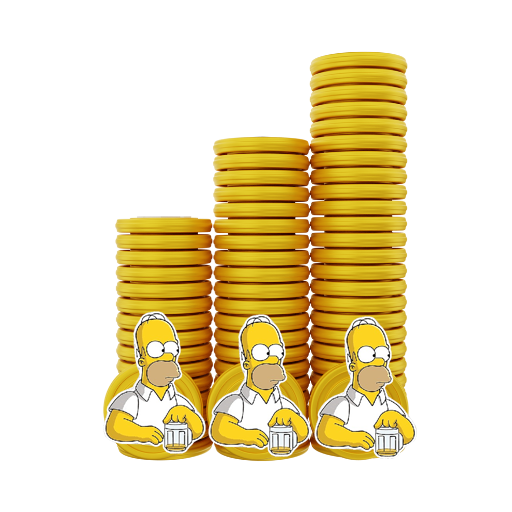
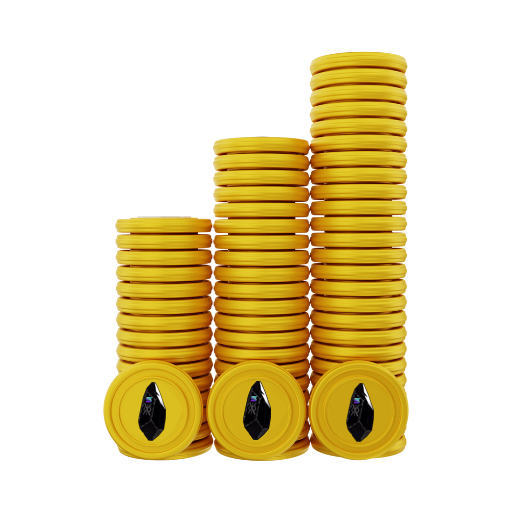
mew

Changed region(s): [[0.1875, 0.5938, 0.8125, 0.9062]]

diff --git a/index.html b/index.html
@@ -6,7 +6,7 @@
     <meta name="viewport" content="width=device-width, initial-scale=1">
     <link rel="profile" href="https://gmpg.org/xfn/11">
 
-    <title>Simpsons </title>
+    <title>Runememe </title>
     <meta name='robots' content='max-image-preview:large' />
     <link rel='dns-prefetch' href='//fonts.googleapis.com' />
     <link rel="alternate" type="application/rss+xml" title="SPONGEBOB &raquo; Feed" href="https://spongebobinu.world/feed/" />
@@ -3608,7 +3608,7 @@ flexibility(document.documentElement);
                                                     <div class="ast-builder-layout-element ast-flex site-header-focus-item" data-section="title_tagline">
                                                         <div class="site-branding ast-site-identity" itemtype="https://schema.org/Organization" itemscope="itemscope">
                                                             <span class="site-logo-img"><a href="" class="custom-logo-link" rel="home" aria-current="page">
-                                                            <img src="/wp-content/uploads/2023/04/cropped-17.png" style="width: 50px;" alt="">
+                                                            <img src="/wp-content/uploads/2023/04/logo.png" style="width: 50px;" alt="">
                                                             </a></span>                                                            </div>
                                                         <!-- .site-branding -->
                                                     </div>
@@ -3659,7 +3659,7 @@ flexibility(document.documentElement);
                                                     <div class="site-branding ast-site-identity" itemtype="" itemscope="itemscope">
                                                         <span class="site-logo-img"><a href="" class="custom-logo-link" rel="home" aria-current="page">
                                                             
-                                                            <img src="/wp-content/uploads/2023/04/cropped-17.png" style="width: 50px;" alt="">
+                                                            <img src="/wp-content/uploads/2023/04/logo.png" style="width: 50px;" alt="">
                                                         </a></span>                                                        </div>
                                                     <!-- .site-branding -->
                                                 </div>
@@ -3711,7 +3711,16 @@ flexibility(document.documentElement);
                                                                                 <div class="elementor-widget-wrap elementor-element-populated">
                                                                                     <div class="elementor-element elementor-element-8ca3dcc dce_masking-none elementor-widget elementor-widget-image" data-id="8ca3dcc" data-element_type="widget" data-widget_type="image.default">
                                                                                         <div class="elementor-widget-container">
-                                                                                       <h1 style="font-family: 'Righteous', display;">Welcome to Simpson</h1>
+                                                                                            <style>
+                                                                                                 .text-gradient {
+        font-size: 48px;
+        background-image: linear-gradient(to left top, #00c57e, #00c899, #00c9b1, #00cac5, #00cad4, #00c3e3, #00bbf0, #00b1f8, #0099fd, #407df9, #7957e6, #a400c3);
+        -webkit-background-clip: text;
+        background-clip: text;
+        color: transparent;
+    }
+                                                                                            </style>
+                                                                                       <h1 style="font-family: 'Righteous', display; color: #000;">Running towards RuneMeme on <span class="text-gradient"> Solana</span> </h1>
                                                                                        <style>
                                                                                                 /*! elementor - v3.13.3 - 28-05-2023 */
 
@@ -3731,7 +3740,19 @@ flexibility(document.documentElement);
                                                                                                     vertical-align: middle;
                                                                                                     display: inline-block
                                                                                                 }
-                                                                                            </style> <img decoding="async" src="/wp-content/uploads/2023/04/1.gif" title="" alt="" loading="lazy" /> </div>
+                                                                                                @keyframes float {
+        0% { transform: translateY(0); }
+        50% { transform: translateY(-10px); }
+        100% { transform: translateY(0); }
+    }
+    
+    .floating-element {
+     
+        animation: float 2s infinite;
+    }
+                                                                                            </style> 
+                                                                                            
+                                                                                            <img decoding="async" src="/wp-content/uploads/2023/04/1.gif"  class="floating-element" title="" alt="" loading="lazy" /> </div>
                                                                                     </div>
                                                                                 </div>
                                                                             </div>
@@ -4140,7 +4161,7 @@ flexibility(document.documentElement);
                                                             </div>
                                                         </div>
                                                     </section>
-                                                    <section data-dce-background-color="#290B6600" data-dce-background-image-url="/wp-content/uploads/2023/04/8.png" class="elementor-section elementor-top-section elementor-element elementor-element-44015ba9 elementor-section-boxed elementor-section-height-default elementor-section-height-default"
+                                                    <section data-dce-background-color="#290B6600" data-dce-background-image-url="/wp-content/uploads/2023/04/logo.png" class="elementor-section elementor-top-section elementor-element elementor-element-44015ba9 elementor-section-boxed elementor-section-height-default elementor-section-height-default"
                                                         data-id="44015ba9" data-element_type="section" id="about" data-settings="{&quot;background_background&quot;:&quot;classic&quot;}">
                                                         <div class="elementor-container elementor-column-gap-default">
                                                             <div class="elementor-column elementor-col-100 elementor-top-column elementor-element elementor-element-5a9f4544" data-id="5a9f4544" data-element_type="column">
@@ -4186,20 +4207,24 @@ flexibility(document.documentElement);
                                                                                                     display: inline-block
                                                                                                 }
                                                                                             </style>
-                                                                                            <p>Hi,</p>
+                                                                                            <p>About</p>
                                                                                         </div>
                                                                                     </div>
                                                                                     <div class="elementor-element elementor-element-ed303f5 elementor-widget elementor-widget-text-editor" data-id="ed303f5" data-element_type="widget" data-settings="{&quot;_animation_mobile&quot;:&quot;fadeInUp&quot;}" data-widget_type="text-editor.default">
                                                                                         <div class="elementor-widget-container">
-                                                                                            <p>I&#8217;m Homper Simpson</p>
+                                                                                            <p> Runememe</p>
                                                                                         </div>
                                                                                     </div>
                                                                                     <div class="elementor-element elementor-element-5133971c elementor-widget elementor-widget-text-editor" data-id="5133971c" data-element_type="widget" data-settings="{&quot;_animation&quot;:&quot;none&quot;,&quot;_animation_mobile&quot;:&quot;fadeInUp&quot;}"
                                                                                         data-widget_type="text-editor.default">
                                                                                         <div class="elementor-widget-container">
                                                                                             <p>
-                                                                                                Lorem ipsum, dolor sit amet consectetur adipisicing elit. Laborum ea quia a temporibus l
-                                                                                                abore, maxime, ut distinctio fugit quo fuga architecto consequatur vitae aperiam!
+                                                                                                RuneMeme on Solana is inspired by $Runes and Bitcoin Ecosystem 🪙🪙
+
+                                                                                                We are on the journey to making RuneMeme the Biggest and 
+                                                                                                Most Recognized Meme Project under the Influence of $Runes 👻👻
+                                                                                                
+                                                                                                Stay Tuned as we make this a groundbreaking breaking Project to make its Community the Wealthy and Recognized 💰🥳
                                                                                             </p>
                                                                                         </div>
                                                                                     </div>
@@ -4209,7 +4234,7 @@ flexibility(document.documentElement);
                                                                                 <div class="elementor-widget-wrap elementor-element-populated">
                                                                                     <div class="elementor-element elementor-element-7878457f dce_masking-none elementor-widget elementor-widget-image" data-id="7878457f" data-element_type="widget" data-widget_type="image.default">
                                                                                         <div class="elementor-widget-container">
-                                                                                            <img decoding="async" src="/wp-content/uploads/2023/04/c-1.png" title="" alt="" loading="lazy" /> </div>
+                                                                                            <img decoding="async" src="/wp-content/uploads/2023/04/logo.png" class="floating-element" title="" alt="" loading="lazy" /> </div>
                                                                                     </div>
                                                                                 </div>
                                                                             </div>
@@ -4269,7 +4294,7 @@ flexibility(document.documentElement);
                                                                                 <div class="elementor-widget-wrap elementor-element-populated">
                                                                                     <div class="elementor-element elementor-element-b2f0bf7 elementor-widget elementor-widget-text-editor" data-id="b2f0bf7" data-element_type="widget" data-settings="{&quot;_animation_mobile&quot;:&quot;fadeInUp&quot;}" data-widget_type="text-editor.default">
                                                                                         <div class="elementor-widget-container">
-                                                                                            <p>Lorem, ipsum dolor.</p>
+                                                                                            <p>  RuneMeme on Solana is inspired by $Runes and Bitcoin Ecosystem 🪙🪙</p>
                                                                                         </div>
                                                                                     </div>
                                                                                 </div>
@@ -4292,7 +4317,8 @@ flexibility(document.documentElement);
                                                                                     <div class="elementor-element elementor-element-8a384f8 elementor-widget elementor-widget-text-editor" data-id="8a384f8" data-element_type="widget" data-settings="{&quot;_animation&quot;:&quot;none&quot;,&quot;_animation_mobile&quot;:&quot;fadeInUp&quot;}"
                                                                                         data-widget_type="text-editor.default">
                                                                                         <div class="elementor-widget-container">
-                                                                                            <p>Lorem ipsum dolor sit amet consectetur, adipisicing elit. Rem iste inventore non!</p>
+                                                                                            <!-- <p>Lorem ipsum dolor sit amet consectetur, adipisicing elit. Rem iste inventore non!</p>
+                                                                                         -->
                                                                                         </div>
                                                                                     </div>
                                                                                 </div>
@@ -4400,7 +4426,7 @@ flexibility(document.documentElement);
                                                                                             <div class="elementor-counter">
                                                                                                 <div class="elementor-counter-number-wrapper">
                                                                                                     <span class="elementor-counter-number-prefix"></span>
-                                                                                                    <span class="elementor-counter-number" data-duration="2000" data-to-value="50.7" data-from-value="0" data-delimiter=",">0</span>
+                                                                                                    <span class="elementor-counter-number" data-duration="2000" data-to-value="100" data-from-value="0" data-delimiter=",">0</span>
                                                                                                     <span class="elementor-counter-number-suffix">%</span>
                                                                                                 </div>
                                                                                                 <div class="elementor-counter-title">Burn</div>
@@ -4412,7 +4438,7 @@ flexibility(document.documentElement);
                                                                                             <div class="elementor-counter">
                                                                                                 <div class="elementor-counter-number-wrapper">
                                                                                                     <span class="elementor-counter-number-prefix"></span>
-                                                                                                    <span class="elementor-counter-number" data-duration="2000" data-to-value="16.4" data-from-value="0" data-delimiter=",">0</span>
+                                                                                                    <span class="elementor-counter-number" data-duration="2000" data-to-value="40" data-from-value="0" data-delimiter=",">0</span>
                                                                                                     <span class="elementor-counter-number-suffix">%</span>
                                                                                                 </div>
                                                                                                 <div class="elementor-counter-title">Liquidity</div>
@@ -4428,8 +4454,8 @@ flexibility(document.documentElement);
                                                                                             <div class="elementor-counter">
                                                                                                 <div class="elementor-counter-number-wrapper">
                                                                                                     <span class="elementor-counter-number-prefix"></span>
-                                                                                                    <span class="elementor-counter-number" data-duration="2000" data-to-value="100" data-from-value="0" data-delimiter=",">0</span>
-                                                                                                    <span class="elementor-counter-number-suffix"> Millon</span>
+                                                                                                    <span class="elementor-counter-number" data-duration="2000" data-to-value="1" data-from-value="0" data-delimiter=",">0</span>
+                                                                                                    <span class="elementor-counter-number-suffix"> Billion</span>
                                                                                                 </div>
                                                                                                 <div class="elementor-counter-title">Total Supply</div>
                                                                                             </div>
@@ -4437,7 +4463,7 @@ flexibility(document.documentElement);
                                                                                     </div>
                                                                                     <div class="elementor-element elementor-element-2601dc4 dce_masking-none elementor-widget elementor-widget-image" data-id="2601dc4" data-element_type="widget" data-widget_type="image.default">
                                                                                         <div class="elementor-widget-container">
-                                                                                            <img decoding="async" width="512" height="512" src="https://spongebobinu.world/wp-content/uploads/2023/04/21.png" class="attachment-large size-large wp-image-412" alt="" loading="lazy" srcset="/wp-content/uploads/2023/04/21.png 512w, /wp-content/uploads/2023/04/21.png 300w, /wp-content/uploads/2023/04/21.png 150w"
+                                                                                            <img decoding="async" width="512" height="512" src="/wp-content/uploads/2023/04/21.png" class="attachment-large size-large wp-image-412" alt="" loading="lazy" srcset="/wp-content/uploads/2023/04/21.png 512w, /wp-content/uploads/2023/04/21.png 300w, /wp-content/uploads/2023/04/21.png 150w"
                                                                                                 sizes="(max-width: 512px) 100vw, 512px" /> </div>
                                                                                     </div>
                                                                                 </div>
@@ -4447,7 +4473,7 @@ flexibility(document.documentElement);
                                                                                     <div class="elementor-element elementor-element-4885144 elementor-widget elementor-widget-text-editor" data-id="4885144" data-element_type="widget" data-settings="{&quot;_animation_mobile&quot;:&quot;fadeInUp&quot;,&quot;_animation&quot;:&quot;none&quot;}"
                                                                                         data-widget_type="text-editor.default">
                                                                                         <div class="elementor-widget-container">
-                                                                                            <p>Tax 10/10</p>
+                                                                                            <!-- <p>Tax 10/10</p> -->
                                                                                         </div>
                                                                                     </div>
                                                                                     <div class="elementor-element elementor-element-ff5a61a elementor-widget elementor-widget-counter" data-id="ff5a61a" data-element_type="widget" data-widget_type="counter.default">
@@ -4467,14 +4493,14 @@ flexibility(document.documentElement);
                                                                                             <div class="elementor-counter">
                                                                                                 <div class="elementor-counter-number-wrapper">
                                                                                                     <span class="elementor-counter-number-prefix"></span>
-                                                                                                    <span class="elementor-counter-number" data-duration="2000" data-to-value="3" data-from-value="0" data-delimiter=",">0</span>
+                                                                                                    <span class="elementor-counter-number" data-duration="2000" data-to-value="100" data-from-value="0" data-delimiter=",">0</span>
                                                                                                     <span class="elementor-counter-number-suffix">%</span>
                                                                                                 </div>
                                                                                                 <div class="elementor-counter-title">Burn</div>
                                                                                             </div>
                                                                                         </div>
                                                                                     </div>
-                                                                                    <div class="elementor-element elementor-element-0942e03 elementor-widget elementor-widget-counter" data-id="0942e03" data-element_type="widget" data-widget_type="counter.default">
+                                                                                    <!-- <div class="elementor-element elementor-element-0942e03 elementor-widget elementor-widget-counter" data-id="0942e03" data-element_type="widget" data-widget_type="counter.default">
                                                                                         <div class="elementor-widget-container">
                                                                                             <div class="elementor-counter">
                                                                                                 <div class="elementor-counter-number-wrapper">
@@ -4485,7 +4511,7 @@ flexibility(document.documentElement);
                                                                                                 <div class="elementor-counter-title">Reflections</div>
                                                                                             </div>
                                                                                         </div>
-                                                                                    </div>
+                                                                                    </div> -->
                                                                                 </div>
                                                                             </div>
                                                                         </div>
@@ -4497,7 +4523,7 @@ flexibility(document.documentElement);
                                                                                     <div class="elementor-element elementor-element-a82d580 elementor-widget elementor-widget-text-editor" data-id="a82d580" data-element_type="widget" data-settings="{&quot;_animation_mobile&quot;:&quot;fadeInUp&quot;,&quot;_animation&quot;:&quot;none&quot;}"
                                                                                         data-widget_type="text-editor.default">
                                                                                         <div class="elementor-widget-container">
-                                                                                            <p>Simpson</p>
+                                                                                            <p>Runememe</p>
                                                                                         </div>
                                                                                     </div>
                                                                                     <div class="elementor-element elementor-element-e90e0e5 elementor-widget elementor-widget-text-editor" data-id="e90e0e5" data-element_type="widget" data-settings="{&quot;_animation_mobile&quot;:&quot;fadeInUp&quot;,&quot;_animation&quot;:&quot;none&quot;}"
@@ -4513,7 +4539,7 @@ flexibility(document.documentElement);
                                                                                     <div class="elementor-element elementor-element-19e1a40 elementor-widget elementor-widget-text-editor" data-id="19e1a40" data-element_type="widget" data-settings="{&quot;_animation_mobile&quot;:&quot;fadeInUp&quot;,&quot;_animation&quot;:&quot;none&quot;}"
                                                                                         data-widget_type="text-editor.default">
                                                                                         <div class="elementor-widget-container">
-                                                                                            <p>$Simpson</p>
+                                                                                            <p>$Runememe</p>
                                                                                         </div>
                                                                                     </div>
                                                                                     <div class="elementor-element elementor-element-6329431 elementor-widget elementor-widget-text-editor" data-id="6329431" data-element_type="widget" data-settings="{&quot;_animation_mobile&quot;:&quot;fadeInUp&quot;,&quot;_animation&quot;:&quot;none&quot;}"
@@ -4574,7 +4600,7 @@ flexibility(document.documentElement);
                                                                                     <div class="elementor-element elementor-element-5bdd770b e-transform e-transform elementor-widget elementor-widget-text-editor" data-id="5bdd770b" data-element_type="widget" data-settings="{&quot;_animation_mobile&quot;:&quot;fadeInUp&quot;,&quot;_transform_scale_effect&quot;:{&quot;unit&quot;:&quot;px&quot;,&quot;size&quot;:1.3,&quot;sizes&quot;:[]},&quot;_transform_skewX_effect&quot;:{&quot;unit&quot;:&quot;px&quot;,&quot;size&quot;:10,&quot;sizes&quot;:[]},&quot;_transform_skewY_effect&quot;:{&quot;unit&quot;:&quot;px&quot;,&quot;size&quot;:10,&quot;sizes&quot;:[]},&quot;_transform_scale_effect_tablet&quot;:{&quot;unit&quot;:&quot;px&quot;,&quot;size&quot;:&quot;&quot;,&quot;sizes&quot;:[]},&quot;_transform_scale_effect_mobile&quot;:{&quot;unit&quot;:&quot;px&quot;,&quot;size&quot;:&quot;&quot;,&quot;sizes&quot;:[]},&quot;_transform_skewX_effect_tablet&quot;:{&quot;unit&quot;:&quot;deg&quot;,&quot;size&quot;:&quot;&quot;,&quot;sizes&quot;:[]},&quot;_transform_skewX_effect_mobile&quot;:{&quot;unit&quot;:&quot;deg&quot;,&quot;size&quot;:&quot;&quot;,&quot;sizes&quot;:[]},&quot;_transform_skewY_effect_tablet&quot;:{&quot;unit&quot;:&quot;deg&quot;,&quot;size&quot;:&quot;&quot;,&quot;sizes&quot;:[]},&quot;_transform_skewY_effect_mobile&quot;:{&quot;unit&quot;:&quot;deg&quot;,&quot;size&quot;:&quot;&quot;,&quot;sizes&quot;:[]}}"
                                                                                         data-widget_type="text-editor.default">
                                                                                         <div class="elementor-widget-container">
-                                                                                            <p>Simpsons</p>
+                                                                                            <p>Runememe</p>
                                                                                         </div>
                                                                                     </div>
                                                                                     <div class="elementor-element elementor-element-e57c1e2 e-transform e-transform elementor-widget elementor-widget-text-editor" data-id="e57c1e2" data-element_type="widget" data-settings="{&quot;_animation_mobile&quot;:&quot;fadeInUp&quot;,&quot;_transform_scale_effect&quot;:{&quot;unit&quot;:&quot;px&quot;,&quot;size&quot;:1.3,&quot;sizes&quot;:[]},&quot;_transform_skewX_effect&quot;:{&quot;unit&quot;:&quot;px&quot;,&quot;size&quot;:10,&quot;sizes&quot;:[]},&quot;_transform_skewY_effect&quot;:{&quot;unit&quot;:&quot;px&quot;,&quot;size&quot;:10,&quot;sizes&quot;:[]},&quot;_transform_scale_effect_tablet&quot;:{&quot;unit&quot;:&quot;px&quot;,&quot;size&quot;:&quot;&quot;,&quot;sizes&quot;:[]},&quot;_transform_scale_effect_mobile&quot;:{&quot;unit&quot;:&quot;px&quot;,&quot;size&quot;:&quot;&quot;,&quot;sizes&quot;:[]},&quot;_transform_skewX_effect_tablet&quot;:{&quot;unit&quot;:&quot;deg&quot;,&quot;size&quot;:&quot;&quot;,&quot;sizes&quot;:[]},&quot;_transform_skewX_effect_mobile&quot;:{&quot;unit&quot;:&quot;deg&quot;,&quot;size&quot;:&quot;&quot;,&quot;sizes&quot;:[]},&quot;_transform_skewY_effect_tablet&quot;:{&quot;unit&quot;:&quot;deg&quot;,&quot;size&quot;:&quot;&quot;,&quot;sizes&quot;:[]},&quot;_transform_skewY_effect_mobile&quot;:{&quot;unit&quot;:&quot;deg&quot;,&quot;size&quot;:&quot;&quot;,&quot;sizes&quot;:[]}}"
@@ -4773,7 +4799,7 @@ flexibility(document.documentElement);
                                         <div class="site-footer-below-section-1 site-footer-section site-footer-section-1">
                                             <div class="ast-builder-layout-element ast-flex site-footer-focus-item ast-footer-copyright" data-section="section-footer-builder">
                                                 <div class="ast-footer-copyright">
-                                                    <p><strong>COPYRIGHT &copy; 2024 Simpson</strong></p>
+                                                    <p><strong>COPYRIGHT &copy; 2024 Runes</strong></p>
                                                 </div>
                                             </div>
                                         </div>

diff --git a/wp-content/uploads/elementor/css/post-103.css b/wp-content/uploads/elementor/css/post-103.css
@@ -182,7 +182,7 @@
 .elementor-103 .elementor-element.elementor-element-44015ba9:not(.elementor-motion-effects-element-type-background),
 .elementor-103 .elementor-element.elementor-element-44015ba9>.elementor-motion-effects-container>.elementor-motion-effects-layer {
     background-color: #290B6600;
-    background-image: url("/wp-content/uploads/2023/04/8.png");
+    background-image: url("/wp-content/uploads/2023/04/logo.png");
     background-position: center right;
     background-repeat: no-repeat;
     background-size: auto;
